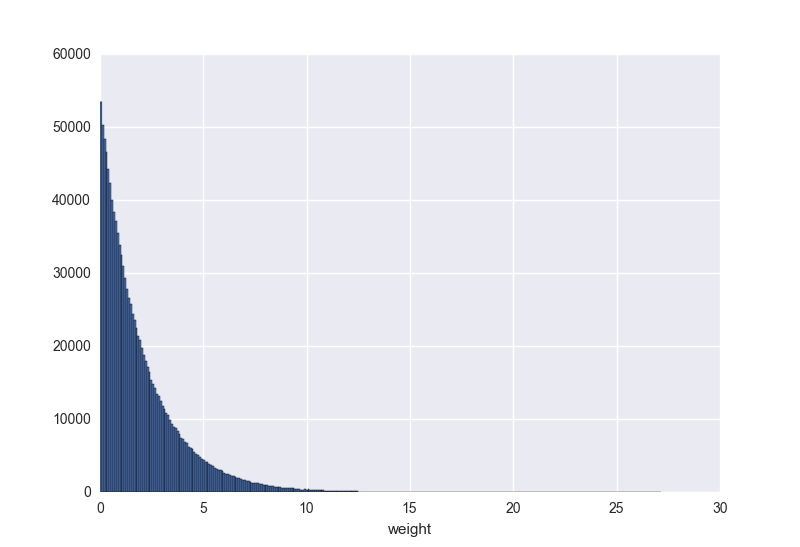
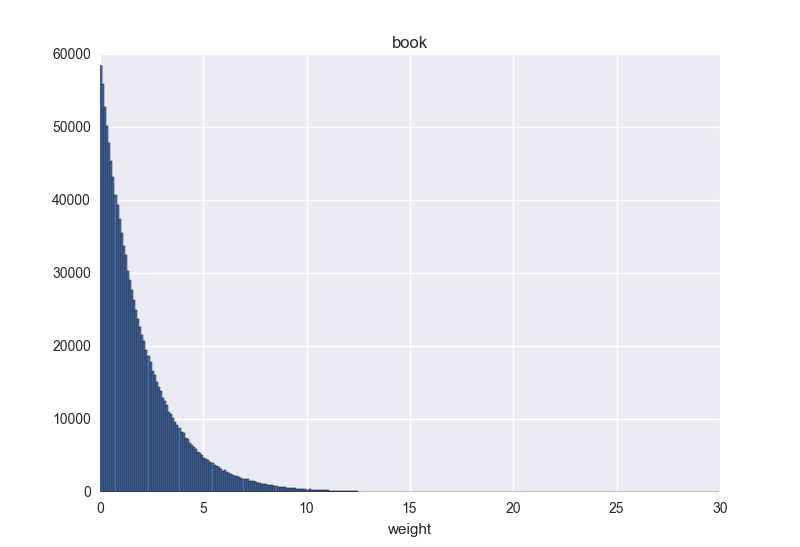
gave pics titles

Changed region(s): [[0.125, 0.1243, 0.375, 0.9013], [0.4688, 0.0622, 0.5312, 0.0932]]

diff --git a/DataVis/monte_carlo_weights_initial.py b/DataVis/monte_carlo_weights_initial.py
@@ -52,6 +52,7 @@ for present in presents_with_random_weights:
     new_hist = plt.figure(present)
     plt.hist(presents_with_random_weights[present], 300, label=str(present))
     plt.xlabel('weight')
+    plt.title(present)
 
 
     

diff --git a/DataVis/bar_chart_of_categories.py b/DataVis/bar_chart_of_categories.py
@@ -8,7 +8,7 @@ Created on Mon Jan 23 23:25:19 2017
 import numpy as np
 import pandas as pd
 import matplotlib.pyplot as plt
-import seaborn as sb
+#import seaborn as sb
 import os
 
 script_dir = os.path.dirname(__file__)
